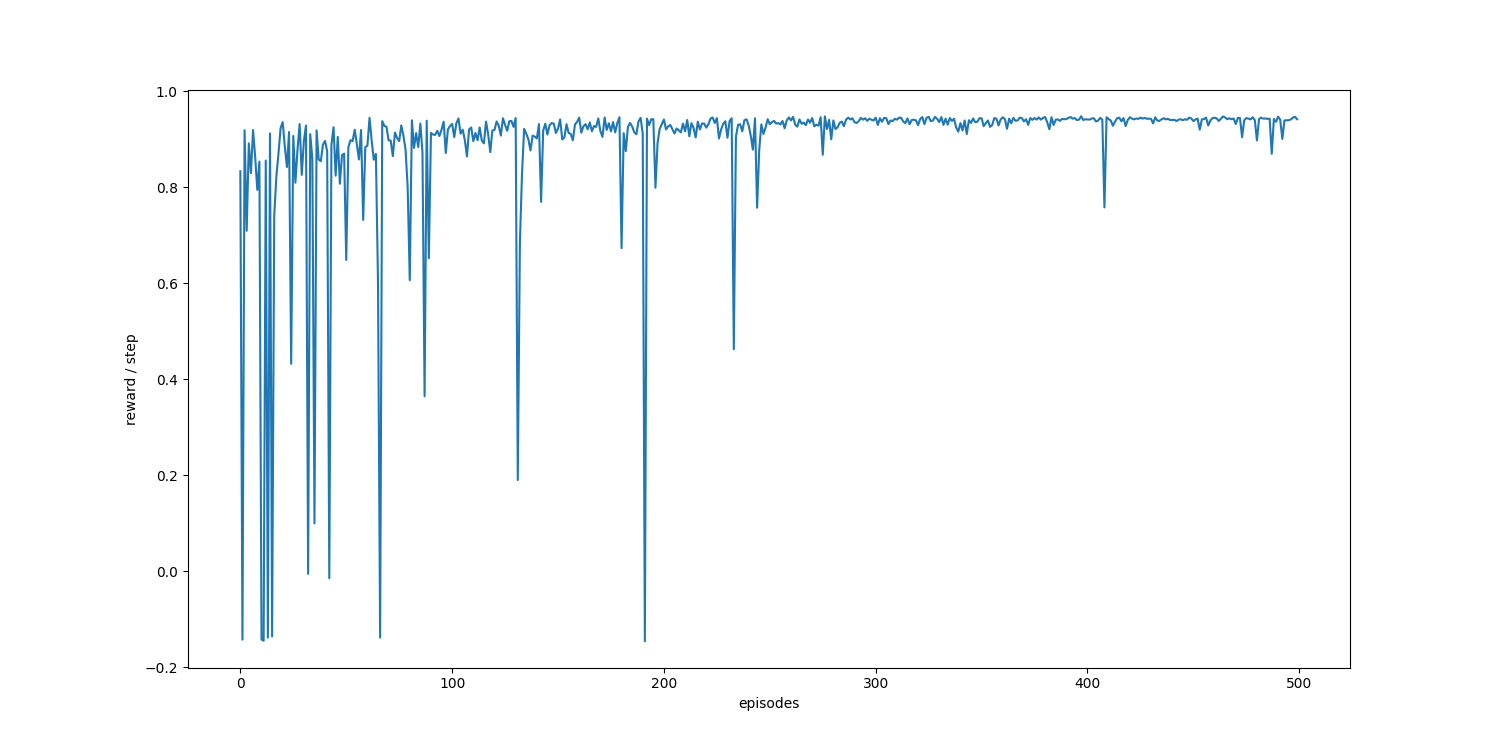
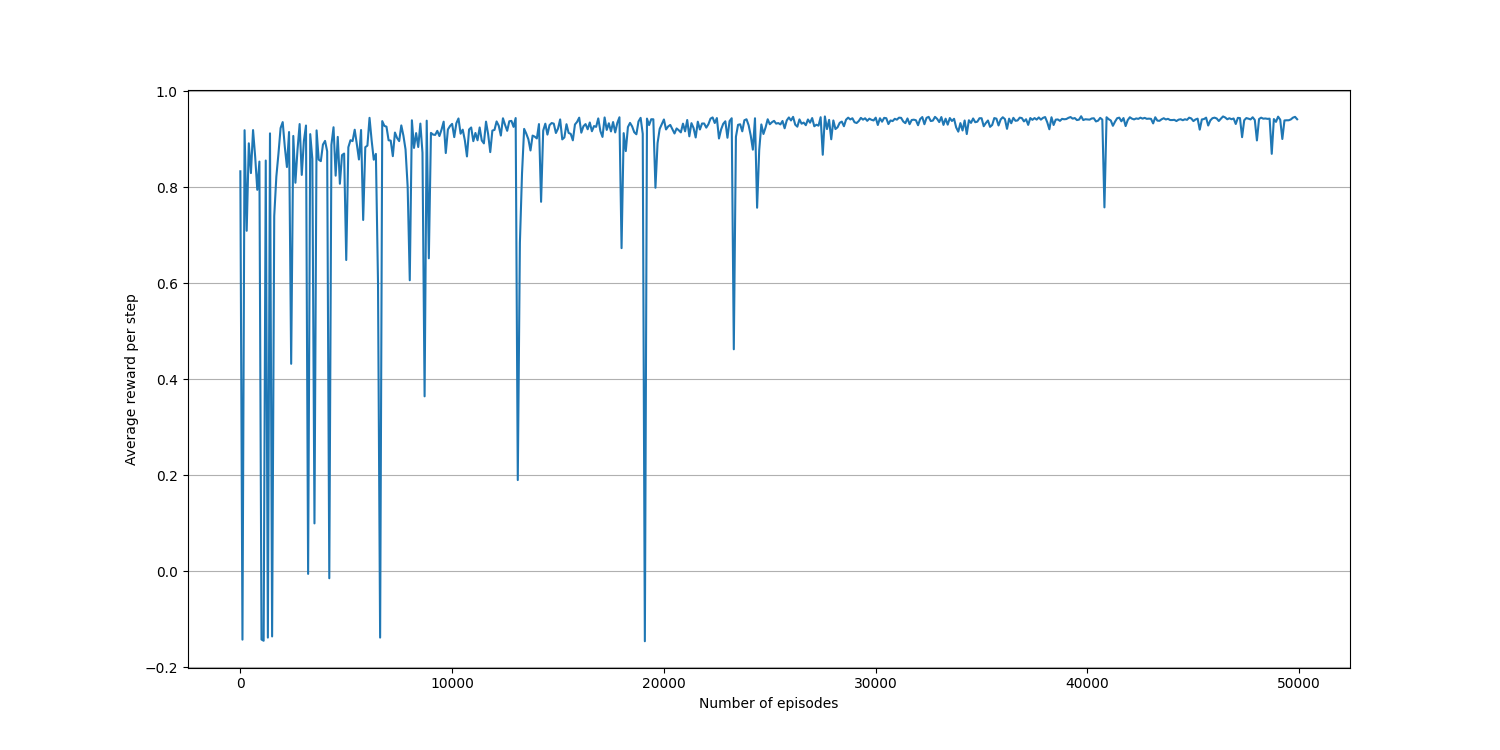
Improved plots

diff --git a/taxi.py b/taxi.py
@@ -45,9 +45,10 @@ def show_plot(algorithm, trails, episodes):
   # learning plot
   plt.figure(figsize=(15, 7.5))
   plt.plot(reward_sequence)
-  plt.xlabel('episodes')
-  plt.ylabel('reward / step')
-  
+  plt.xlabel('Number of episodes')
+  plt.xticks([x/10 for x in range(episodes+1) if x%1000==0],[str(x*10) for x in range(episodes+1) if x%1000 == 0])
+  plt.ylabel('Average reward per step')
+  plt.grid(axis='y')
   plt.savefig("./plots/{}_{}_{}".format(algorithm, trails, episodes))
   
   plt.show()
@@ -85,7 +86,7 @@ gamma = 0.5
 # print("-----------------------MAXQ-Q started-------------------------------")
 # r_maxQQ = maxQQ.run_game(env, trails, maxq_episodes, gamma)
 print("-----------------------Polling started------------------------------")
-polling = polling.run_game(env, trails, polling_episodes, gamma)
+#polling = polling.run_game(env, trails, polling_episodes, gamma)
 
 # show_plot("maxq0", trails, maxq_episodes)
 # show_plot("maxqq",trails, maxq_episodes)
